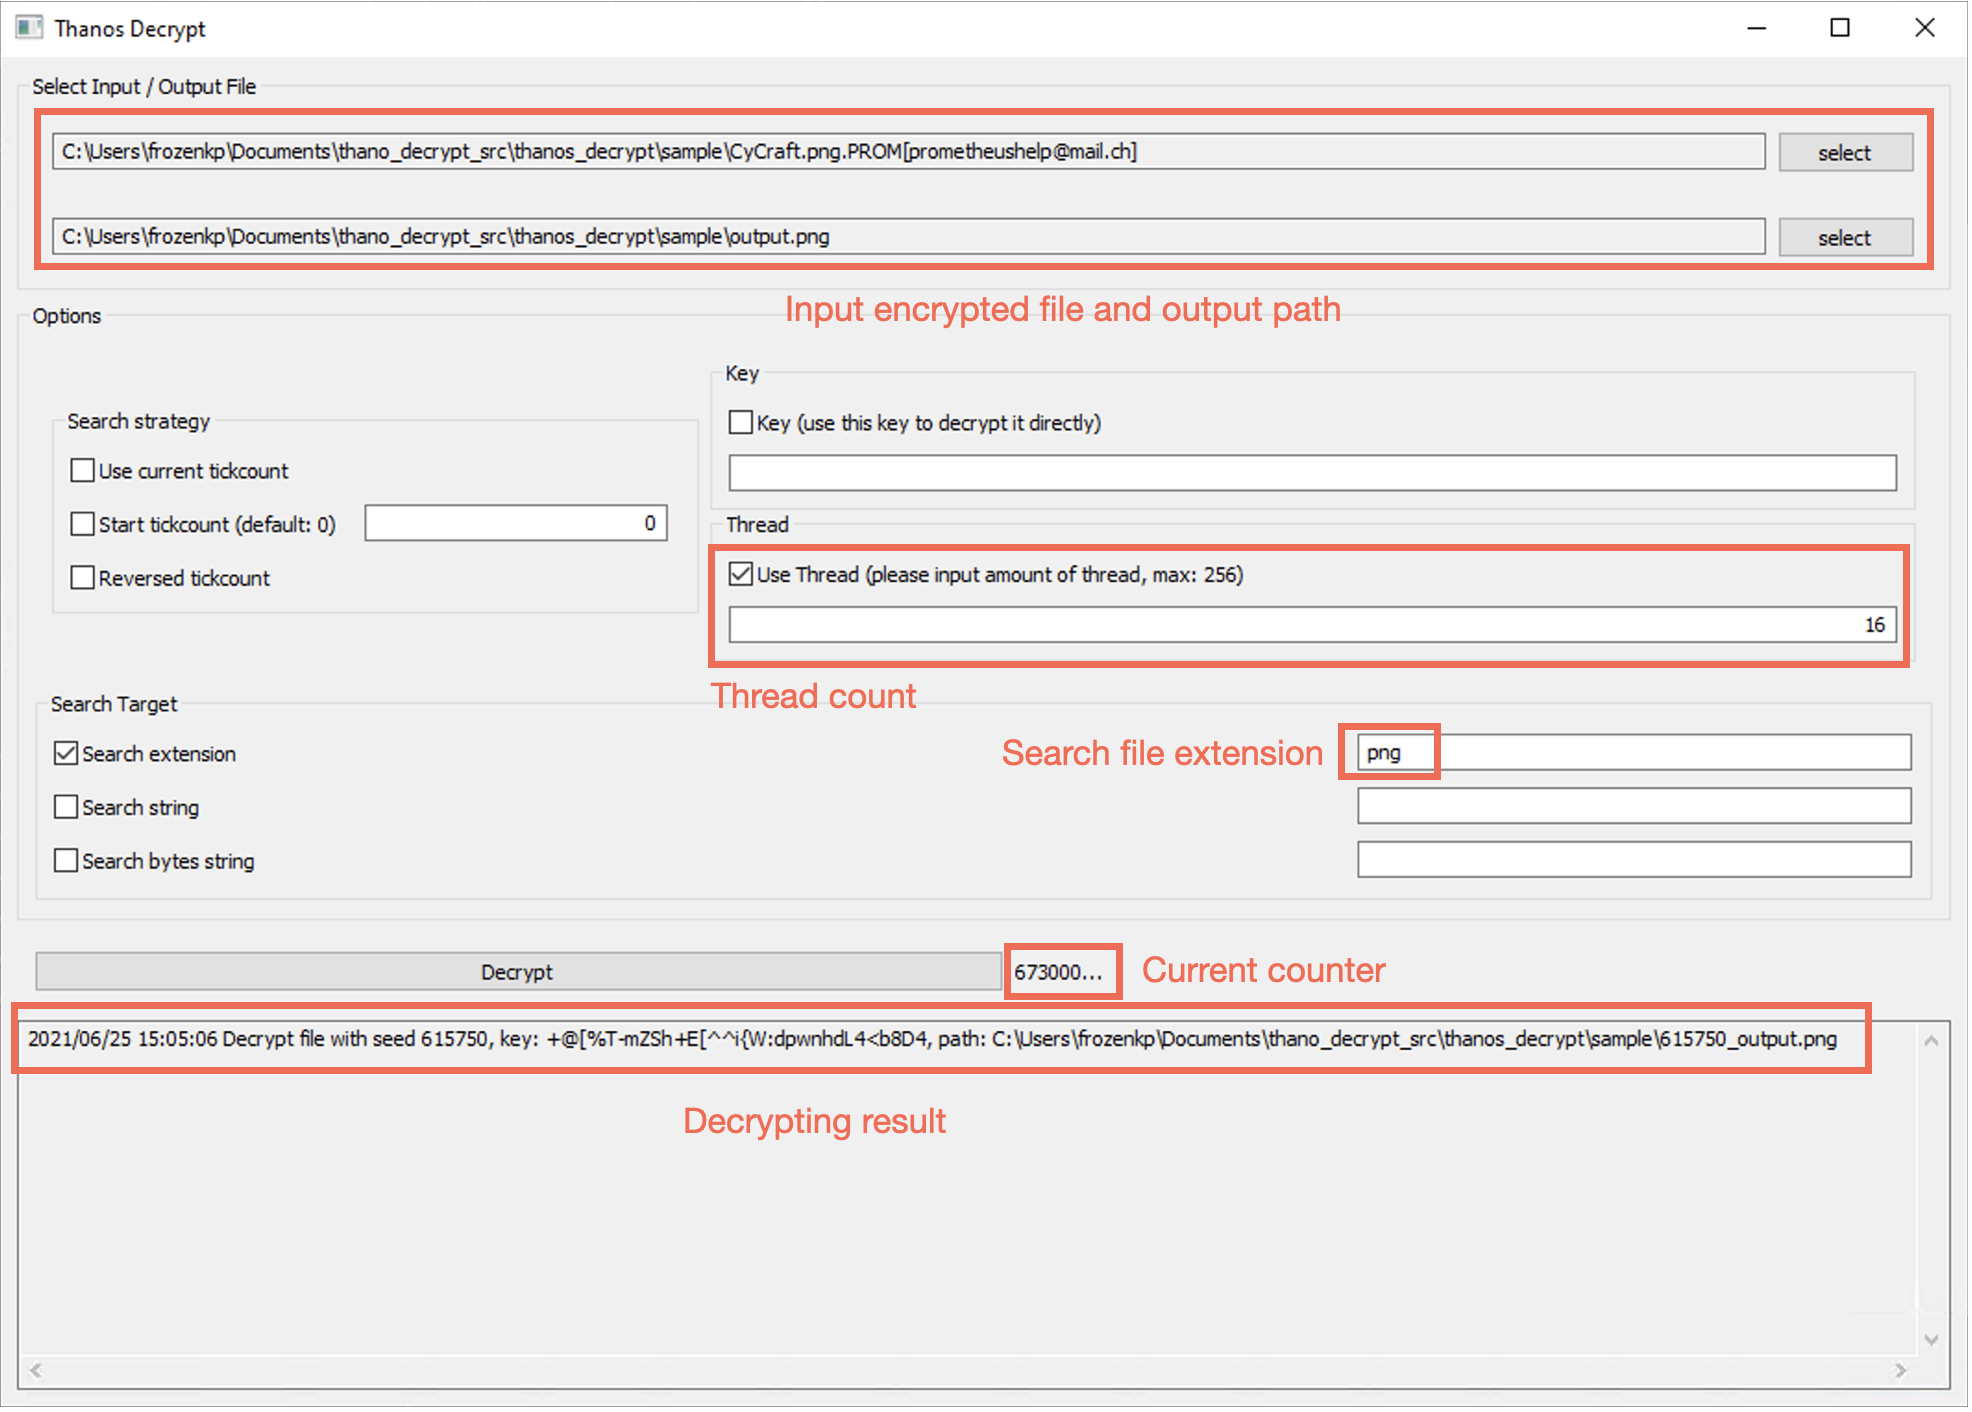
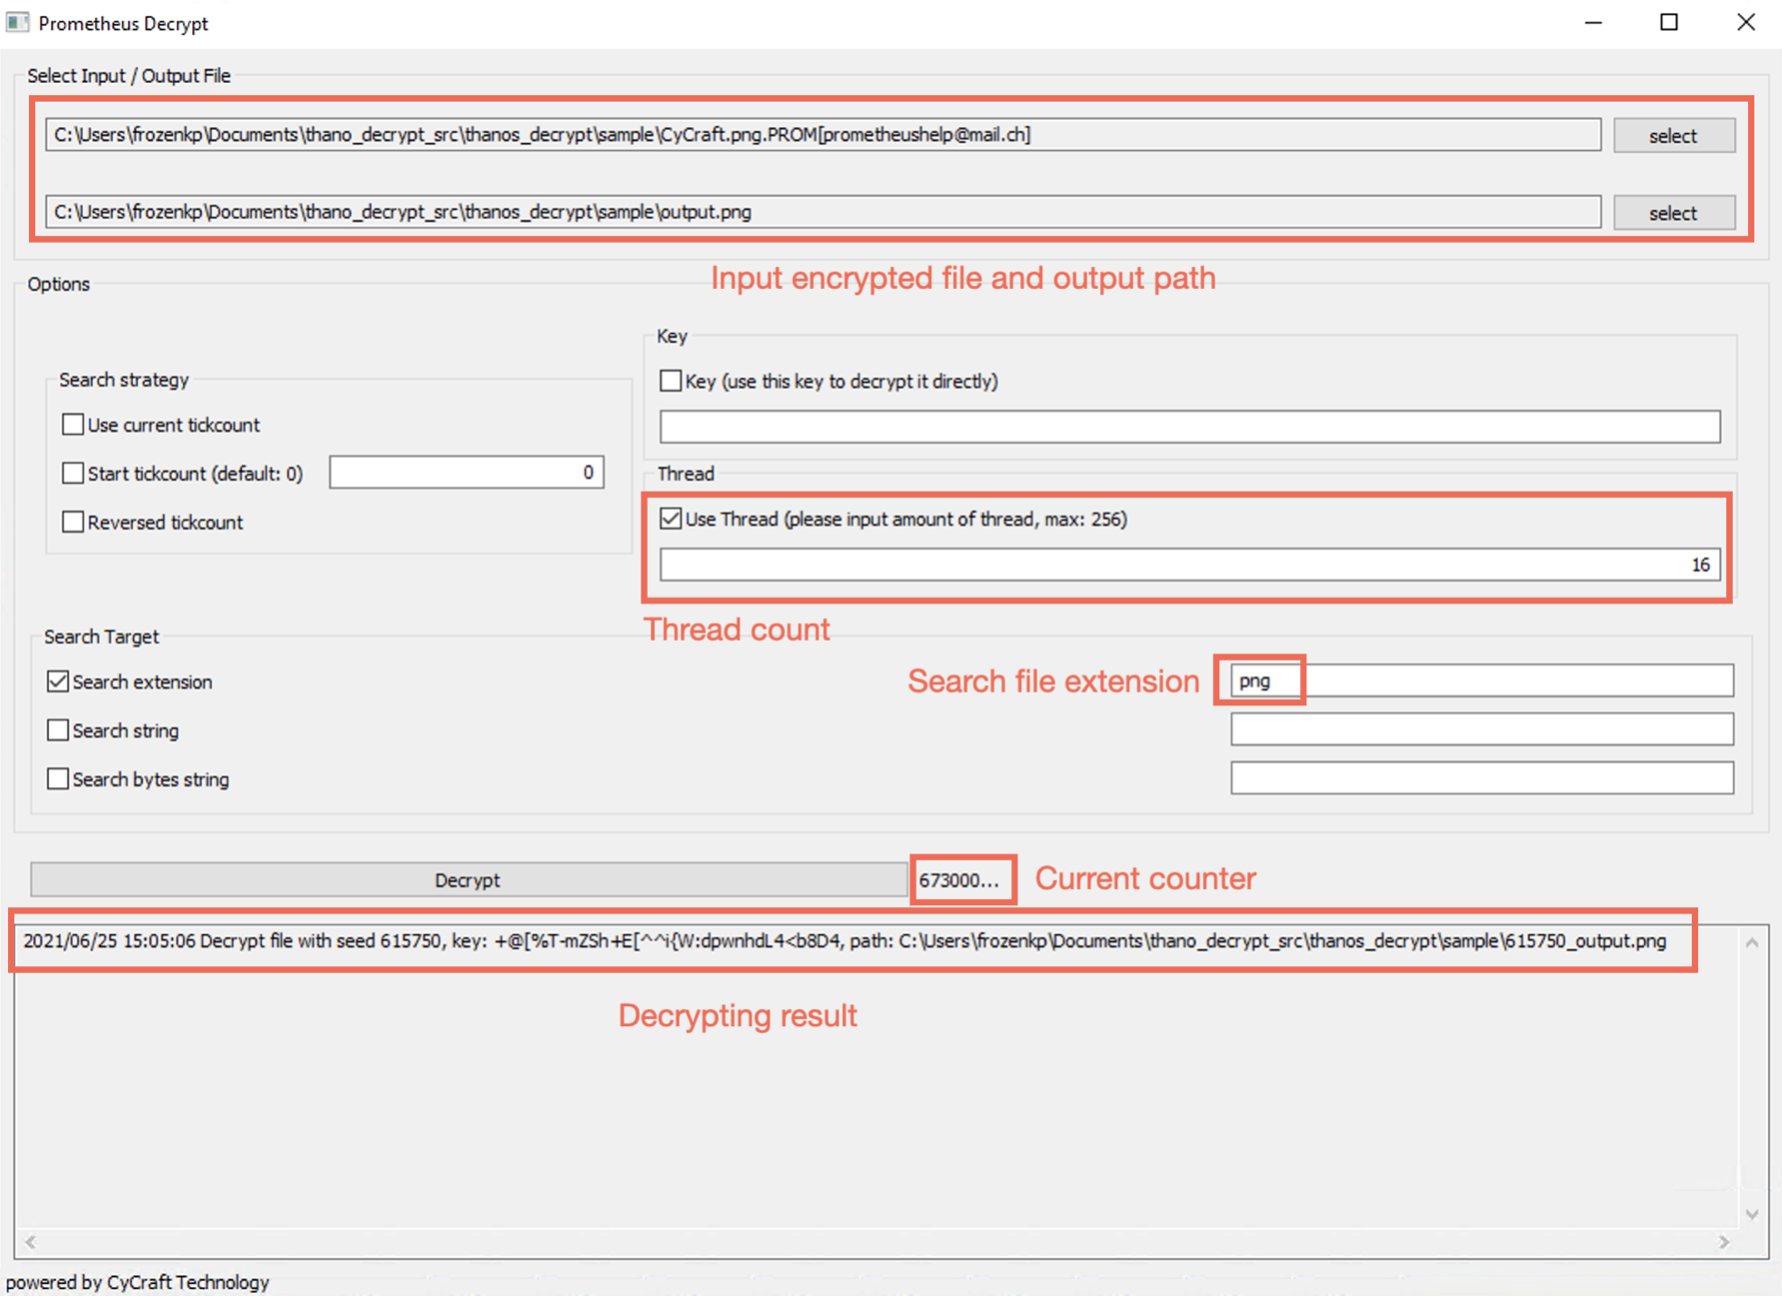
modify GUI

diff --git a/main_gui.go b/main_gui.go
@@ -234,7 +234,7 @@ func main(){
               },
             },
           },
-        },   
+        },
       },
       // Option
       GroupBox{
@@ -271,7 +271,7 @@ func main(){
                         AssignTo: &mw.startTickNum,
                       },
                     },
-                  },     
+                  },
                   CheckBox {
                     AssignTo: &mw.useRevTick,
                     Text: "Reversed tickcount",
@@ -397,6 +397,10 @@ func main(){
         HScroll: true,
         VScroll: true,
         MinSize: Size{Height: 200},
+      },
+      TextLabel{
+        Alignment: AlignHFarVCenter,
+        Text: "powered by CyCraft Technology",
       },
     },
   }.Run()); err != nil {
